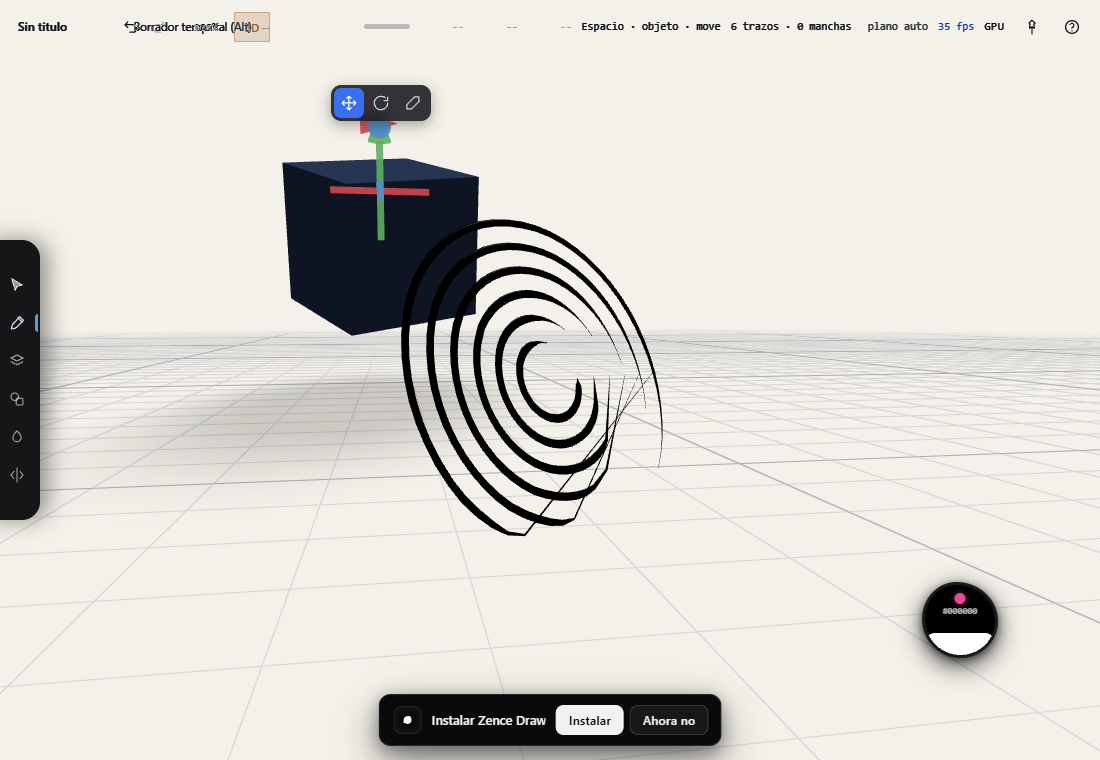
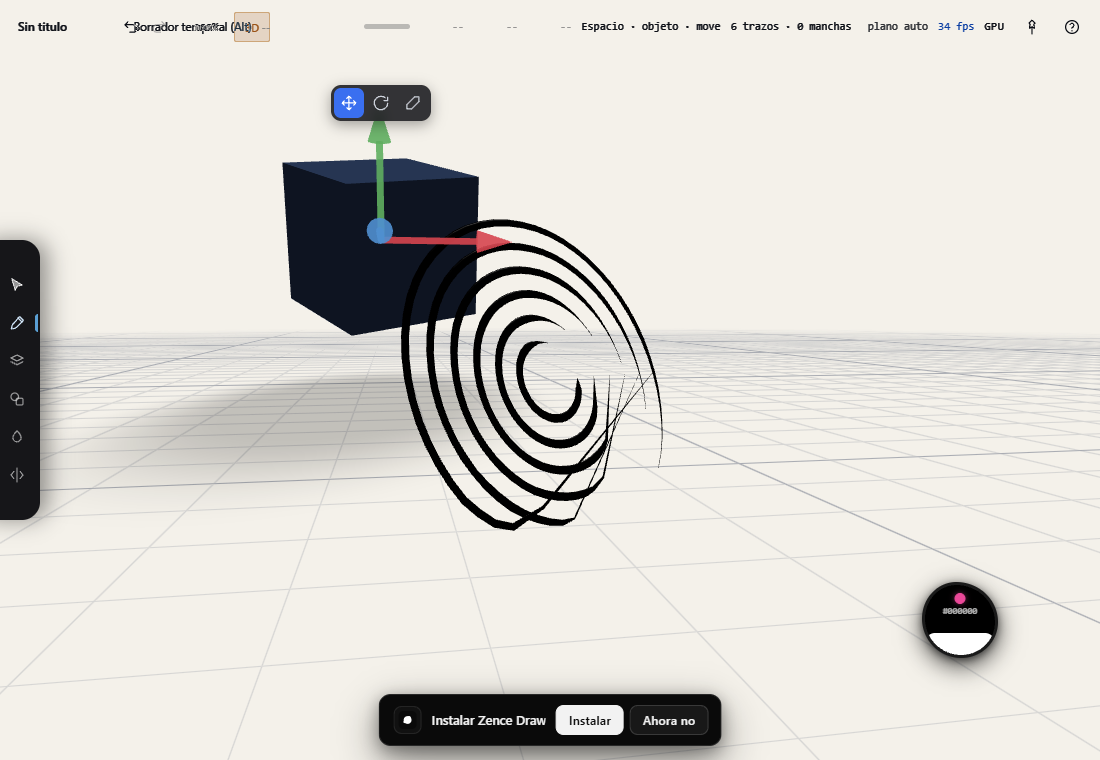
3dv8

diff --git a/src/render3d/backend.ts b/src/render3d/backend.ts
@@ -87,8 +87,13 @@ export interface V3Radius {
  * medidas de abajo estan puestas para que a esa misma escala la varilla tenga un
  * par de pixeles de ancho y la punta se lea como una flecha o un cubo.
  *
- * Se construye en el eje +Y -de donde nacen las geometrias de three- y se gira a
- * cada eje; la punta arranca donde acaba la varilla para que no quede hueco.
+ * Cada pieza nace apuntando +Y -de donde salen las geometrias de three- y se
+ * ORIENTA Y COLOCA sobre su eje con la misma rotacion. El fallo que esto corrige:
+ * poner `position.y` y despues rotar la malla NO mueve la pieza -`position` es del
+ * padre, la rotacion gira la geometria sobre su origen-, asi que las tres varillas
+ * quedaban apiladas en el eje Y, solo giradas, y las puntas de X y Z aparecian
+ * amontonadas en la punta de la Y. Al rotar tambien el vector de posicion, cada
+ * brazo sale por su eje.
  */
 const buildGizmoAxis = (mode: GizmoMode, axis: GizmoAxisName): THREE.Mesh[] => {
   const color = AXIS_COLORS[axis];
@@ -101,10 +106,19 @@ const buildGizmoAxis = (mode: GizmoMode, axis: GizmoAxisName): THREE.Mesh[] => {
       depthWrite: false,
     });
 
-  // Rotacion del eje unitario +Y a cada eje: las geometrias de three nacen en Y.
-  const orient = (m: THREE.Mesh): void => {
-    if (axis === "x") m.rotation.z = -Math.PI / 2;
-    else if (axis === "z") m.rotation.x = Math.PI / 2;
+  // Orienta la pieza de +Y a su eje Y COLOCA su centro a distancia `d` sobre ese
+  // mismo eje. La rotacion y la traslacion van juntas: sin esto las puntas de X y
+  // Z saltaban a la punta de la Y.
+  const place = (m: THREE.Mesh, d: number): void => {
+    if (axis === "x") {
+      m.rotation.z = -Math.PI / 2;
+      m.position.set(d, 0, 0);
+    } else if (axis === "z") {
+      m.rotation.x = Math.PI / 2;
+      m.position.set(0, 0, d);
+    } else {
+      m.position.set(0, d, 0);
+    }
   };
 
   if (mode === "rotate") {
@@ -118,20 +132,17 @@ const buildGizmoAxis = (mode: GizmoMode, axis: GizmoAxisName): THREE.Mesh[] => {
   }
 
   const meshes: THREE.Mesh[] = [];
-  // Varilla: un cilindro del centro a 0.8 por el eje.
+  // Varilla: un cilindro del centro a 0.8 por el eje, centrada en 0.4.
   const shaft = new THREE.Mesh(new THREE.CylinderGeometry(0.028, 0.028, 0.8, 12), mat());
-  shaft.position.y = 0.4;
-  orient(shaft);
+  place(shaft, 0.4);
   meshes.push(shaft);
 
-  // Punta: cono para mover, cubo para escalar. Arranca en 0.8 y llega a ~1.0, para
-  // que el brazo mida 1 unidad exacta y el picking -que mide sobre el eje- encaje.
+  // Punta: cono para mover, cubo para escalar. Centrada en 0.95, al final del brazo.
   const tip =
     mode === "scale"
       ? new THREE.Mesh(new THREE.BoxGeometry(0.17, 0.17, 0.17), mat())
       : new THREE.Mesh(new THREE.ConeGeometry(0.095, 0.3, 16), mat());
-  tip.position.y = 0.95;
-  orient(tip);
+  place(tip, 0.95);
   meshes.push(tip);
   return meshes;
 };
@@ -601,7 +612,8 @@ export class Scene3DBackend {
    * una geometria mas.
    *
    * `light` es la luz principal, o `null` si no hay con que proyectar: entonces no
-   * hay sombras y se quitan todas. `floorY` es la altura del suelo.
+   * hay sombras y se quitan todas. `s` lleva los valores que el usuario gradua:
+   * opacidad, dureza del borde y tamano del disco.
    */
   syncShadows(
     objects: readonly Object3D[],
@@ -609,26 +621,31 @@ export class Scene3DBackend {
     light: Light3D | null,
     floorY: number,
     radiusOf: (o: Object3D) => V3Radius,
-    opacity: number,
+    s: { opacity: number; hardness: number; size: number },
   ): void {
     if (!this.renderer) return;
     const live = new Set<string>();
 
-    if (light && opacity > 0.002) {
+    if (light && s.opacity > 0.002) {
       for (const o of objects) {
         const paint = paintOf(o.layerId);
         if (!paint.visible || o.hidden) continue;
         const { center, radius } = radiusOf(o);
-        const disc = contactShadow(light, center, radius, floorY, opacity * paint.opacity);
+        // El tamano del usuario multiplica el radio del objeto: una sombra mas
+        // ancha o mas ajustada sin tocar el objeto.
+        const disc = contactShadow(light, center, radius * s.size, floorY, s.opacity * paint.opacity);
         if (!disc) continue;
         live.add(o.id);
 
         let sh = this.shadowEntries.get(o.id);
         if (!sh) {
-          sh = createShadowEntry(this.shadowQuad, 0);
+          sh = createShadowEntry(this.shadowQuad, 0, s.hardness);
           this.scene.add(sh.mesh);
           this.shadowEntries.set(o.id, sh);
         }
+        // La dureza puede cambiar fotograma a fotograma -es un deslizador-, asi que
+        // se reescribe siempre, no solo al crear la entrada.
+        sh.material.uniforms.uHardness.value = s.hardness;
         this.placeShadowDisc(sh, disc, floorY);
         // Debajo de TODO lo de la capa, incluso de la rejilla no -esa es el suelo-:
         // la sombra se posa sobre el suelo y bajo cualquier trazo u objeto.

diff --git a/src/render3d/objects.ts b/src/render3d/objects.ts
@@ -195,6 +195,11 @@ export const disposeObjectEntry = (entry: ObjectEntry): void => {
  * recorte. Es lo que hace que la sombra se lea como contacto y no como una
  * pegatina negra. El quad se coloca, se escala y se gira sobre el suelo con la
  * matriz de modelo, que calcula el backend a partir del `ShadowDisc`.
+ *
+ * `uHardness` gradua el borde: el radio al que empieza a caer el alfa. A 0 el
+ * disco se desvanece casi desde el centro -muy difuso-; cerca de 1 el nucleo
+ * opaco llega casi hasta el borde y la caida es corta -sombra dura-. Es el control
+ * que faltaba, el que decide si la sombra es blanda o marcada.
  */
 const SHADOW_VERT = /* glsl */ `
 precision highp float;
@@ -211,12 +216,16 @@ void main() {
 const SHADOW_FRAG = /* glsl */ `
 precision highp float;
 uniform float uOpacity;
+uniform float uHardness;
 varying vec2 vUv;
 void main() {
-  // Distancia al centro del disco (0 dentro, 1 en el borde). El alfa cae suave
-  // del centro al borde: nucleo mas oscuro, orilla difusa.
+  // Distancia al centro del disco (0 dentro, 1 en el borde). El alfa es pleno
+  // hasta inner y cae hasta el borde; inner sube con la dureza, asi que un valor
+  // alto deja un nucleo opaco grande y una orilla fina -sombra dura-, y uno bajo
+  // difumina casi desde el centro -sombra blanda-.
   float r = length(vUv);
-  float a = (1.0 - smoothstep(0.35, 1.0, r)) * uOpacity;
+  float inner = mix(0.0, 0.92, clamp(uHardness, 0.0, 1.0));
+  float a = (1.0 - smoothstep(inner, 1.0, r)) * uOpacity;
   if (a <= 0.002) discard;
   // Negro premultiplicado: rgb ya viene multiplicado por el alfa (rgb = 0), asi
   // que la mezcla premultiplicada oscurece el suelo sin aclarar de rebote.
@@ -224,7 +233,7 @@ void main() {
 }
 `;
 
-export const createShadowMaterial = (opacity: number): THREE.ShaderMaterial =>
+export const createShadowMaterial = (opacity: number, hardness: number): THREE.ShaderMaterial =>
   new THREE.ShaderMaterial({
     vertexShader: SHADOW_VERT,
     fragmentShader: SHADOW_FRAG,
@@ -232,6 +241,7 @@ export const createShadowMaterial = (opacity: number): THREE.ShaderMaterial =>
       uViewProjection: { value: new THREE.Matrix4() },
       uModel: { value: new THREE.Matrix4() },
       uOpacity: { value: opacity },
+      uHardness: { value: hardness },
     },
     transparent: true,
     premultipliedAlpha: true,
@@ -275,8 +285,12 @@ export const shadowQuadGeometry = (): THREE.BufferGeometry => {
  * esfera envolvente de la geometria base -radio 2- no describe donde acaba
  * pintando, asi que el descarte de three lo cortaria sin motivo.
  */
-export const createShadowEntry = (geometry: THREE.BufferGeometry, opacity: number): ShadowEntry => {
-  const material = createShadowMaterial(opacity);
+export const createShadowEntry = (
+  geometry: THREE.BufferGeometry,
+  opacity: number,
+  hardness: number,
+): ShadowEntry => {
+  const material = createShadowMaterial(opacity, hardness);
   const mesh = new THREE.Mesh(geometry, material);
   mesh.frustumCulled = false;
   mesh.matrixAutoUpdate = false;

diff --git a/src/ui/model/schema.ts b/src/ui/model/schema.ts
@@ -660,6 +660,64 @@ export function buildSchema(editor: Editor, _state: EditorState, hooks: MenuHook
           ],
         },
         {
+          id: "space-shadow",
+          label: "Sombra",
+          icon: "droplet",
+          hint: "Sombra de contacto bajo los objetos del espacio. Un disco bajo cada objeto que cae con la luz principal; necesita la rejilla puesta, que hace de suelo.",
+          children: [
+            {
+              kind: "toggle",
+              id: "shadow-on",
+              label: "Sombra en el suelo",
+              icon: "droplet",
+              get: (s) => s.scene3dSettings.shadow.enabled,
+              set: (v) => editor.setScene3D({ shadow: { ...editor.state.scene3dSettings.shadow, enabled: v } }),
+            },
+            {
+              kind: "number",
+              id: "shadow-opacity",
+              label: "Opacidad de la sombra",
+              icon: "droplet",
+              min: 0,
+              max: 1,
+              step: 0.05,
+              decimals: 2,
+              hint: "Cuanto oscurece la sombra el suelo. A 0 no se ve; a 1, negra.",
+              visible: (s) => s.scene3dSettings.shadow.enabled,
+              get: (s) => s.scene3dSettings.shadow.opacity,
+              set: (v) => editor.setScene3D({ shadow: { ...editor.state.scene3dSettings.shadow, opacity: v } }),
+            },
+            {
+              kind: "number",
+              id: "shadow-hardness",
+              label: "Dureza del borde",
+              icon: "tune",
+              min: 0,
+              max: 1,
+              step: 0.05,
+              decimals: 2,
+              hint: "A 0, la sombra se difumina casi desde el centro (muy blanda); a 1, el borde es casi neto (sombra marcada).",
+              visible: (s) => s.scene3dSettings.shadow.enabled,
+              get: (s) => s.scene3dSettings.shadow.hardness,
+              set: (v) => editor.setScene3D({ shadow: { ...editor.state.scene3dSettings.shadow, hardness: v } }),
+            },
+            {
+              kind: "number",
+              id: "shadow-size",
+              label: "Tamaño de la sombra",
+              icon: "circle",
+              min: 0.3,
+              max: 3,
+              step: 0.1,
+              decimals: 1,
+              hint: "Tamaño del disco respecto al objeto. 1 es a su medida; más, una sombra más ancha y difusa.",
+              visible: (s) => s.scene3dSettings.shadow.enabled,
+              get: (s) => s.scene3dSettings.shadow.size,
+              set: (v) => editor.setScene3D({ shadow: { ...editor.state.scene3dSettings.shadow, size: v } }),
+            },
+          ],
+        },
+        {
           id: "space-lights",
           label: "Luces",
           icon: "spark",

diff --git a/src/app/viewport3d.ts b/src/app/viewport3d.ts
@@ -223,8 +223,6 @@ const ERASE_SLOP = 10;
  */
 const ANCHOR_CLICK_SLOP = 2;
 
-/** Opacidad de las sombras proyectadas sobre el suelo. */
-const SHADOW_OPACITY = 0.28;
 
 export interface Viewport3DHost {
   /** Color activo del editor. */
@@ -597,16 +595,19 @@ export class Viewport3D {
     // Sombras de contacto sobre el suelo: un disco difuso bajo cada objeto segun
     // la luz principal. Solo con la rejilla puesta, que es la que hace de suelo
     // visible; sin suelo a la vista, una sombra flotando sola confunde mas que
-    // ayuda.
-    const grid = this.api.settings().grid;
-    const key = grid.enabled ? shadowLight(doc.lights3d) : null;
+    // ayuda. Y solo si el usuario las tiene encendidas: la sombra es un recurso de
+    // dibujo que se gradua, no una obligacion de la luz.
+    const settings = this.api.settings();
+    const grid = settings.grid;
+    const shadow = settings.shadow;
+    const key = grid.enabled && shadow.enabled ? shadowLight(doc.lights3d) : null;
     this.backend.syncShadows(
       doc.objects3d,
       paintOf,
       key,
       FLOOR_Y,
       (o) => ({ center: o.transform.position, radius: objectRadius(o) }),
-      SHADOW_OPACITY,
+      { opacity: shadow.opacity, hardness: shadow.hardness, size: shadow.size },
     );
     // El gizmo solo aparece con la herramienta de objetos y uno seleccionado. El
     // eje resaltado es el que haya bajo el cursor cuando no se esta arrastrando;

diff --git a/src/scene3d/tools3d.ts b/src/scene3d/tools3d.ts
@@ -78,6 +78,28 @@ export interface Scene3DSettings {
     /** Opacidad de las lineas, 0..1. */
     opacity: number;
   };
+  /**
+   * Sombras de contacto sobre el suelo.
+   *
+   * Van aparte de las luces porque no son fisica: son un recurso de dibujo que el
+   * usuario quiere poder graduar -una ilustracion pide una sombra mas o menos
+   * marcada segun el gusto, no segun la luz-. Por eso aqui hay valores, y no se
+   * deducen de la intensidad de la luz.
+   */
+  shadow: {
+    enabled: boolean;
+    /** Opacidad en el centro del disco, 0..1. */
+    opacity: number;
+    /**
+     * Dureza del borde, 0..1.
+     *
+     * A 0, el disco se desvanece desde el centro -muy difuso-; a 1, el borde es
+     * casi neto. Es lo que faltaba: sin esto la sombra salia siempre blanda.
+     */
+    hardness: number;
+    /** Tamano del disco respecto al objeto, un multiplicador 0.3..3. */
+    size: number;
+  };
   /** Modo del gizmo cuando la herramienta es `object`: mover, rotar o escalar. */
   gizmo: GizmoMode;
   /** Primitiva que inserta el boton "Insertar". */
@@ -94,6 +116,7 @@ export const DEFAULT_SCENE3D: Scene3DSettings = {
   drawPlane: "view",
   placement: { ...DEFAULT_PLACEMENT },
   grid: { enabled: false, opacity: 0.55 },
+  shadow: { enabled: true, opacity: 0.35, hardness: 0.5, size: 1 },
   gizmo: "move",
   primitive: "box",
 };
